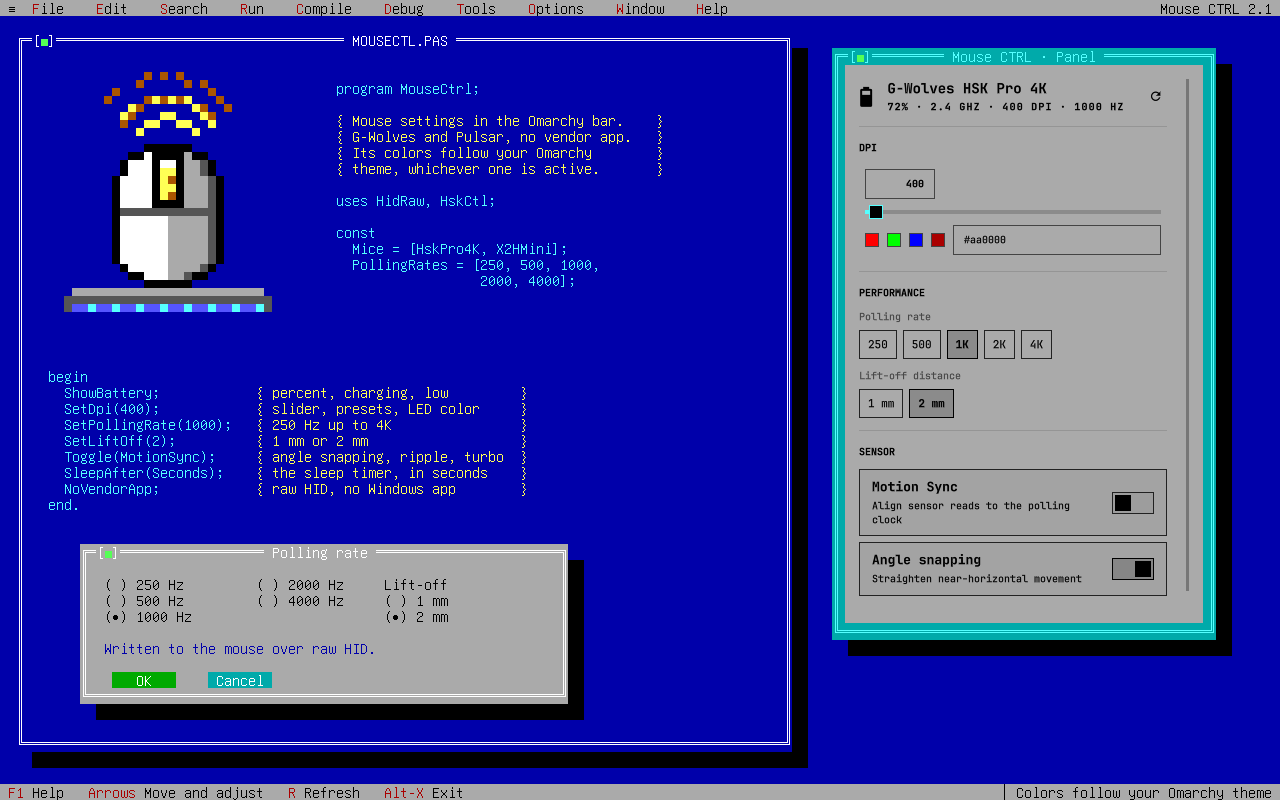
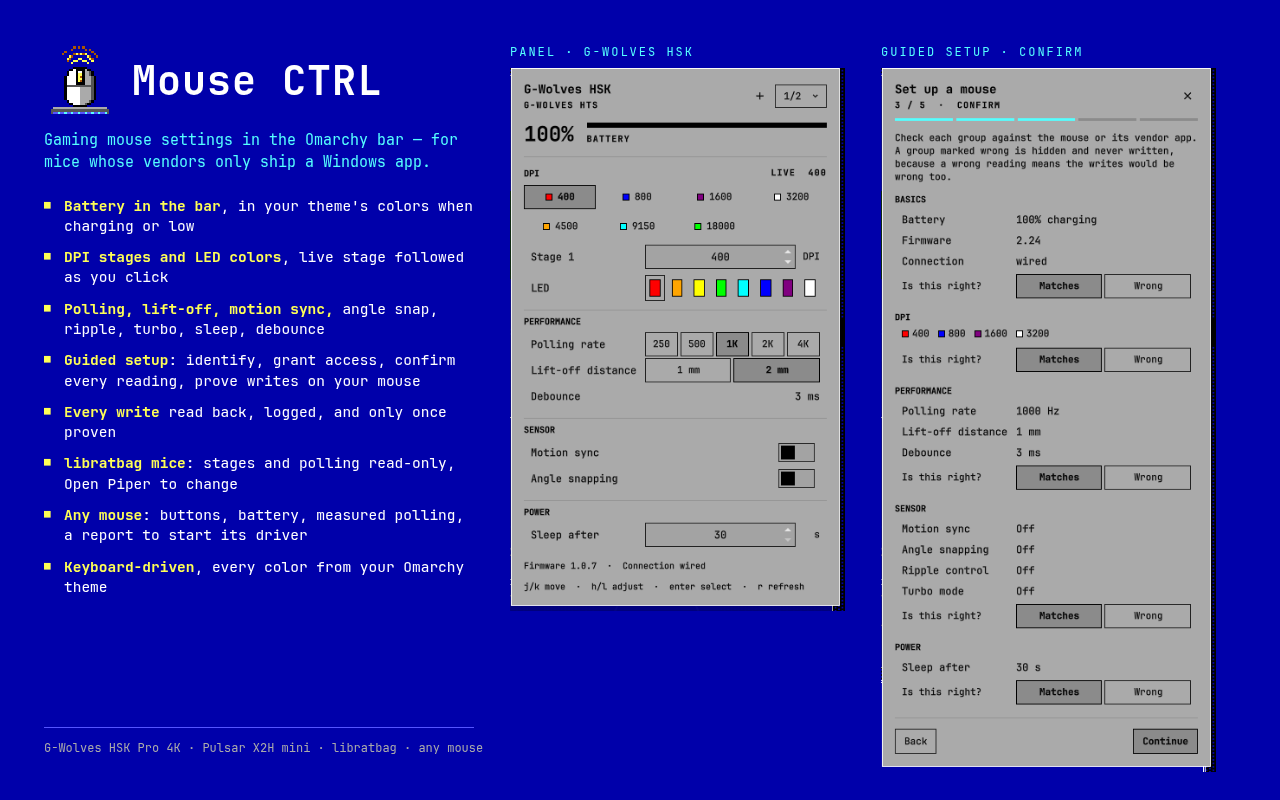
v4.0.0: preview, feature list, setup IPC; remove v3 leftovers
- preview.png: real captures of the panel (HSK) and the guided setup,
  with every feature listed, libratbag included; README and manifest
  describe the same features
- IPC: a parameterless setup method opens the setup wizard
  (omarchy-shell keasbeexd.mousectrl setup), for a key binding
- install.sh: v1/v2 udev rule migration and the hskctl link cleanup
  removed; .gitignore down to what v4 needs
- manifest version 4.0.0

diff --git a/Panel.qml b/Panel.qml
@@ -1,6 +1,7 @@
 import QtQuick
 import QtQuick.Controls
 import Quickshell
+import Quickshell.Io
 import qs.Commons
 import qs.Commons as Commons
 import qs.Ui
@@ -13,6 +14,23 @@ Panel {
   id: root
   moduleName: "keasbeexd.mousectrl"
   ipcTarget: "keasbeexd.mousectrl"
+  // This panel owns the one IpcHandler the target allows, to add `setup`.
+  manageIpc: false
+
+  // Parameterless only: opening the panel or its setup changes nothing.
+  // `omarchy-shell keasbeexd.mousectrl setup` can sit behind a keybinding.
+  IpcHandler {
+    target: root.ipcTarget
+    function open(): void { root.open() }
+    function close(): void { root.close() }
+    function show(): void { root.open() }
+    function hide(): void { root.close() }
+    function toggle(): void { root.toggle() }
+    function setup(): void {
+      root.open()
+      root.openWizard(backend.selectedKey)
+    }
+  }
 
   // Every color comes from the active Omarchy theme. Secondary text is
   // Qt.darker(foreground), matching the first-party panels.

diff --git a/README.md b/README.md
@@ -6,11 +6,38 @@ the widget draws comes from your active Omarchy theme.
 
 <img src="docs/logo.svg" width="96" alt="Mouse CTRL's wireless mouse, in 16 EGA colors">
 
+![Mouse CTRL's panel on a G-Wolves HSK and a Pulsar X2H, its setup wizard, and its features](preview.png)
+
 Many of these mice have no libratbag support, and their vendors' Linux story
 is "there isn't one". Mouse CTRL talks to them directly over raw HID, using
 protocols recovered from the vendors' own Windows apps and checked on real
 hardware. A guided setup in the panel identifies your mouse, asks you to
 confirm what it reads, and only then lets you change anything.
+
+## Features
+
+- **Battery in the bar** — percentage beside the icon, in your theme's accent
+  color while charging and its urgent color when low.
+- **DPI stages and LED colors** — every stage's DPI and its LED color, with
+  the live stage highlighted and followed as you press the mouse's button.
+- **Polling rate, lift-off, motion sync, angle snapping, ripple, turbo,
+  sleep timer, debounce** — whatever the mouse supports, nothing it does not.
+- **Guided setup in the panel** — identifies the mouse, installs access with
+  one password prompt, asks you to confirm every reading, and unlocks a
+  setting only once it is proven: by the driver, or by a write test on your
+  own mouse that reads back and restores.
+- **Several mice** — one profile per mouse however it is connected (cable or
+  either receiver), and a switcher when more than one is plugged in.
+- **libratbag mice** (Logitech, SteelSeries, …) — their active profile, DPI
+  stages and polling rate from `ratbagd`, read-only, with an **Open Piper**
+  button for changes.
+- **Any other mouse** — connection, buttons, kernel-reported battery and a
+  polling rate measured from its own reports, plus **Copy report** to start
+  a driver for it.
+- **Theme-native, keyboard-driven** — every color from your Omarchy theme;
+  `j`/`k`/`h`/`l`/`Enter` work throughout.
+- **Careful by design** — every write is read back and logged, blocks of
+  stages are written whole, and factory reset is not bound to anything.
 
 ## Supported mice
 
@@ -42,8 +69,9 @@ and Piper when they are installed; nothing else needs them.
 
 ## Setting up a mouse
 
-The setup runs inside the panel (**+** in its header, or **Set up this
-mouse**):
+The setup runs inside the panel (**+** in its header, **Set up this mouse**,
+or `omarchy-shell keasbeexd.mousectrl setup`, which can sit behind a key
+binding):
 
 1. **Detect** — pick the mouse. Each is labeled with how it will be handled:
    a supported family, already set up, or read-only.

diff --git a/docs/v4-plan.md b/docs/v4-plan.md
@@ -258,8 +258,12 @@ template and scripts/analyze-driver.py are back; the README is rewritten.
 The omarchy-plugin-security checklist found and fixed six issues (profile
 directory and writes, busctl output bounds, terminal-safe device strings,
 root-side rule validation, analyzer extraction); details in commit
-e590c67. Open before release: a v4 preview.png, the version bump, the
-marketplace baseline scan, merging to master and the [Verify] update.
+e590c67.
+
+**Release.** v4.0.0 with a new preview (real captures of the panel and the
+setup), v3 leftovers removed from install.sh and .gitignore, merged to
+master and submitted to the marketplace as a new [Plugin] (the v3
+submissions were withdrawn by the owner for this rewrite).
 
 ## Settled after the session
 
